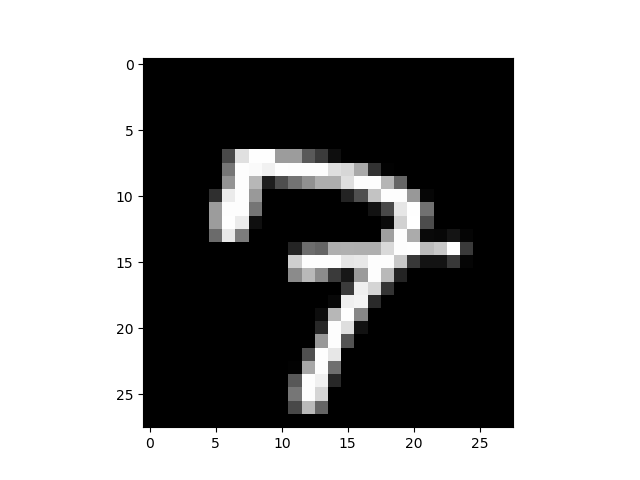
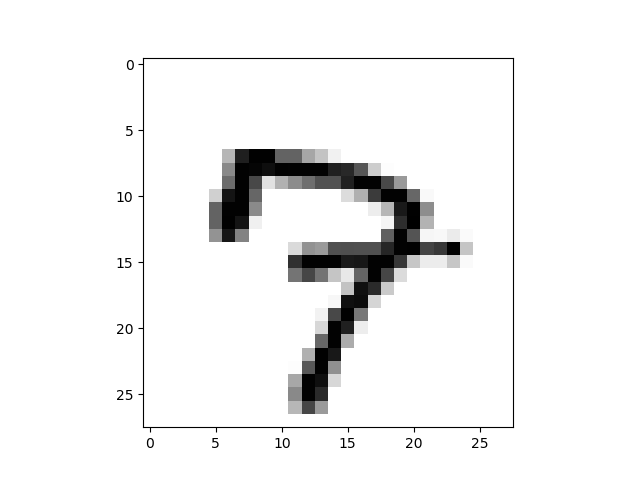
inverted img render

diff --git a/img/scripts/render.py b/img/scripts/render.py
@@ -16,8 +16,9 @@ def render(filename,i):
     img = np.array(A[i,:],copy=True)
     print(img.shape)
     img = img.reshape(28,28)
+    img = 255 - img
     print(img.shape)
-    plt.imshow(img,cmap='gray')
+    plt.imshow(img, cmap="gray", vmin=0, vmax=255)
     plt.savefig("img" + str(i)+"render"+ ".png")
 
 
